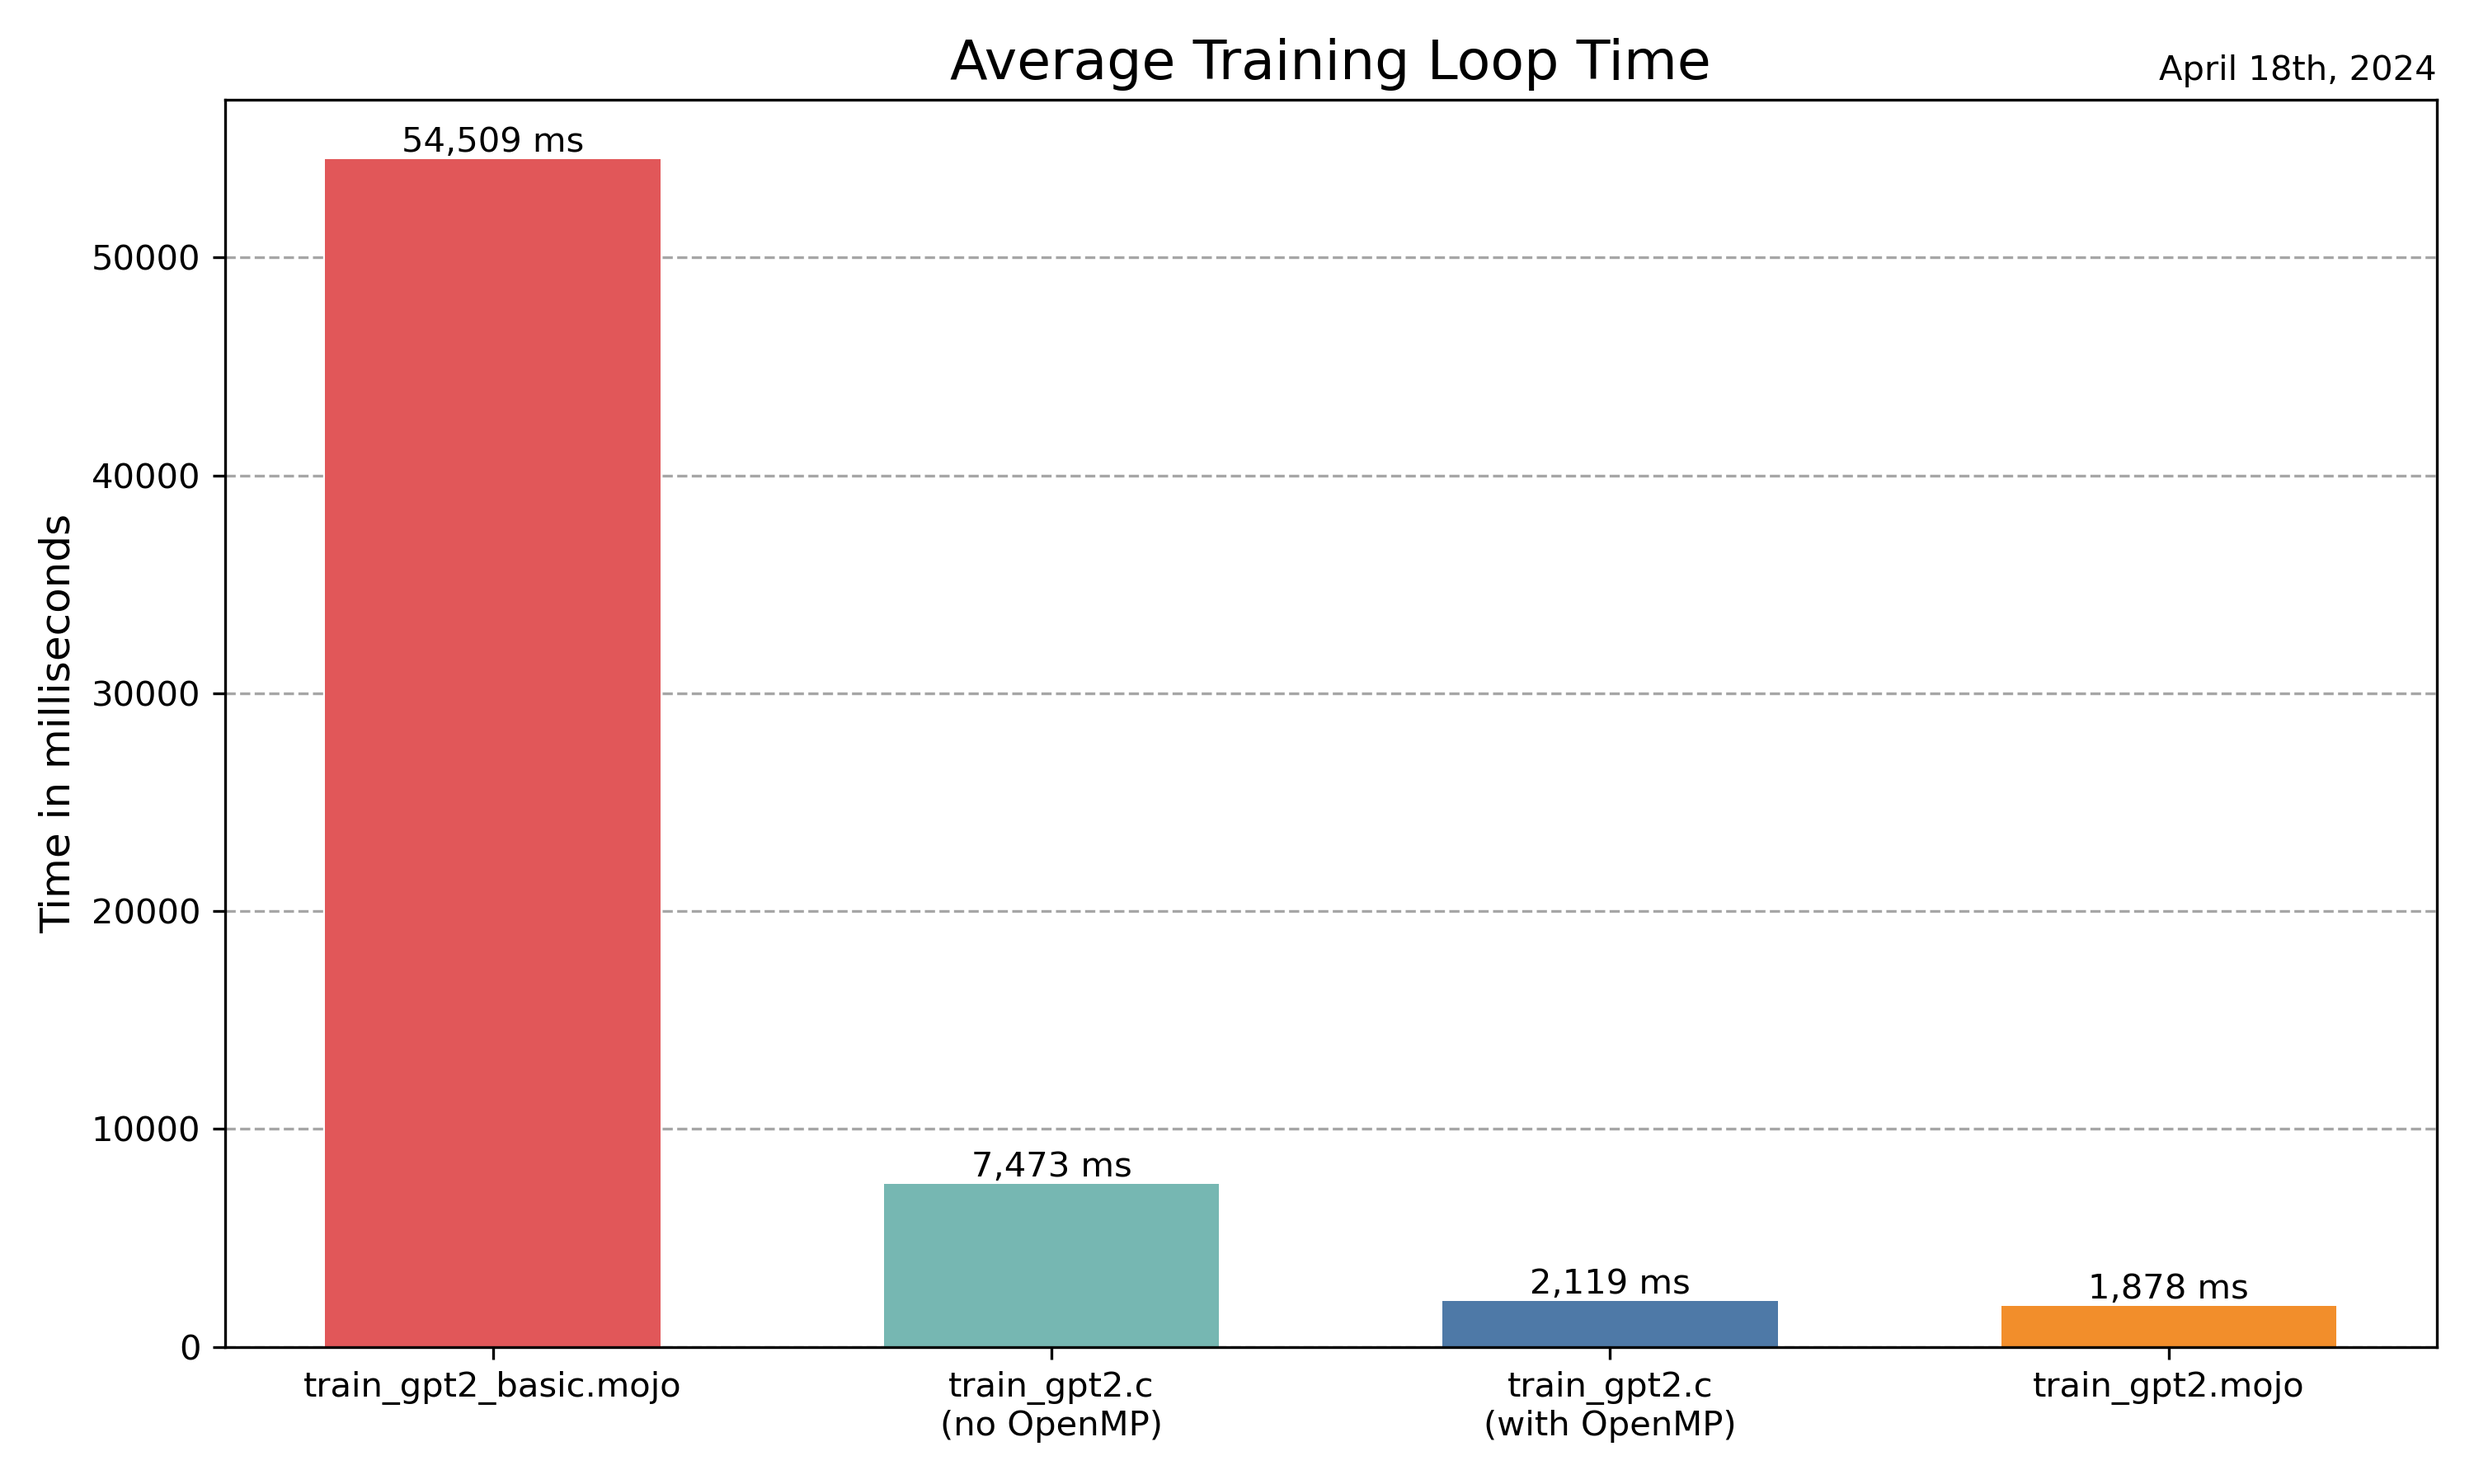
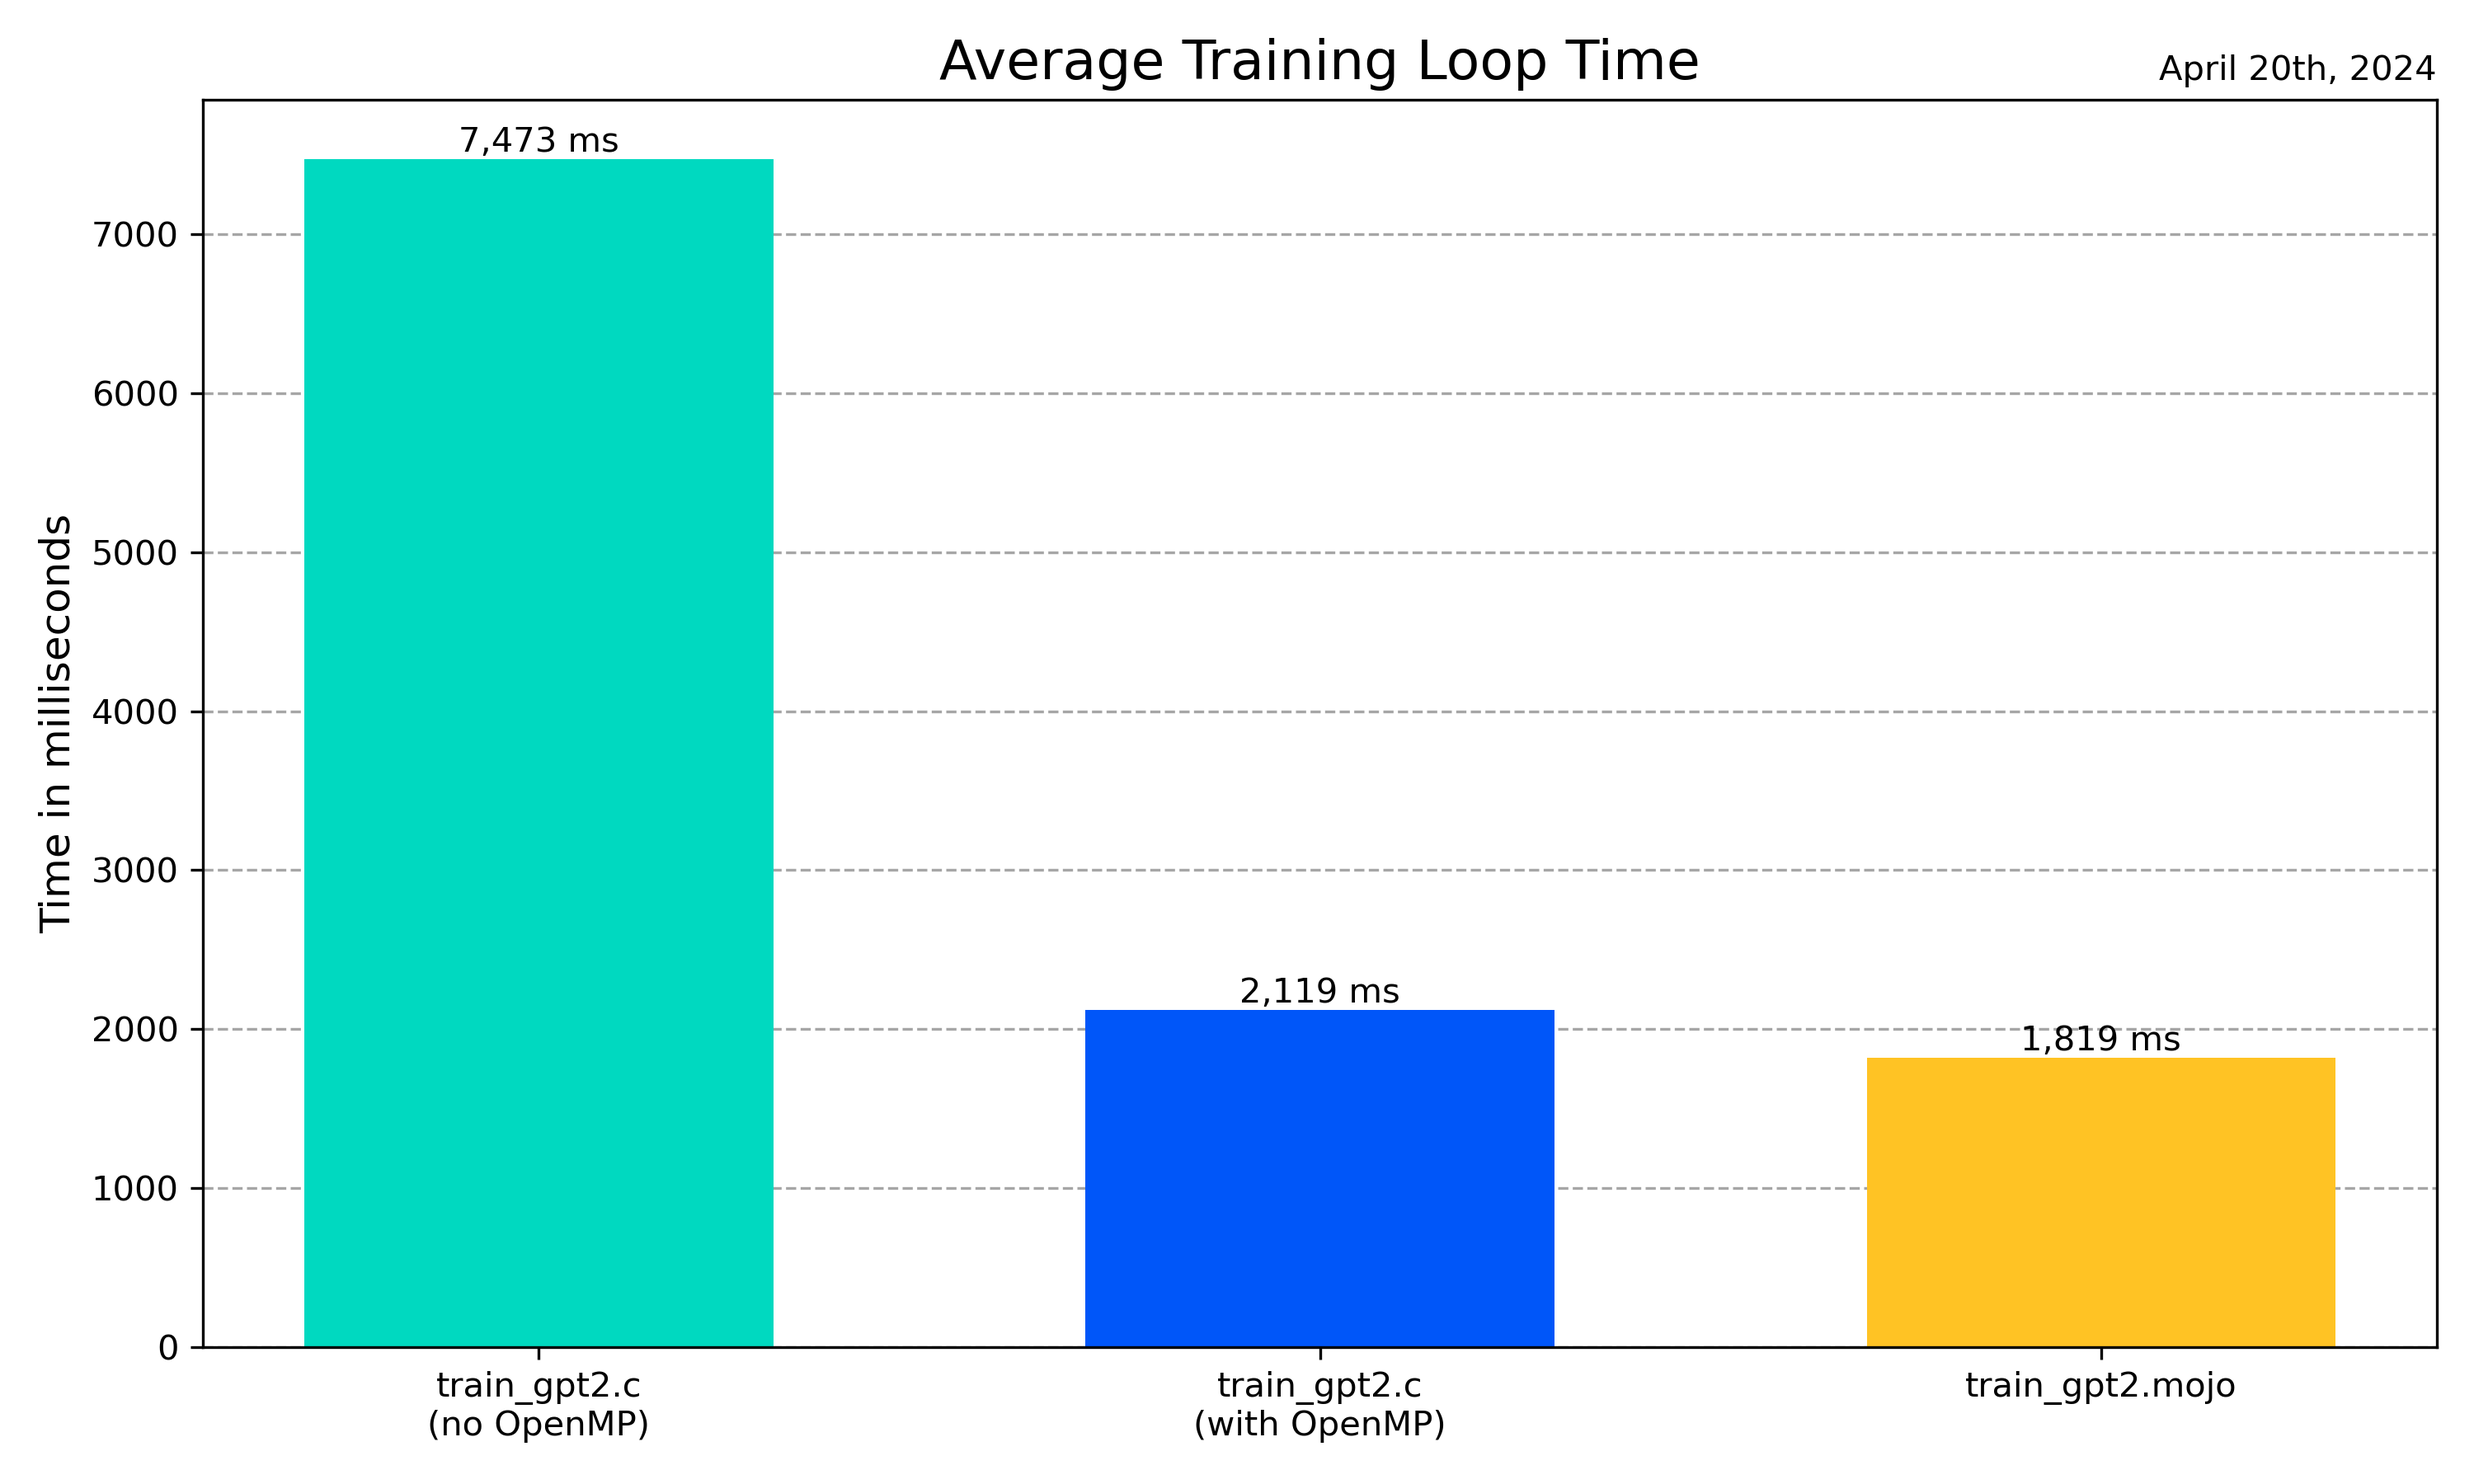
unroll_factor optimization

Changed region(s): [[0.031, 0.0622, 0.961, 0.9644], [0.372, 0.0311, 0.682, 0.0622], [0.899, 0.0311, 0.93, 0.0622]]

diff --git a/README.md b/README.md
@@ -59,7 +59,7 @@ Preliminary benchmark results: (M2 MacBook Pro)
 
 | Implementation             | Average Training Loop Time |
 |----------------------------|----------------------------|
-| train_gpt2.mojo             | 1878 ms                    |
+| train_gpt2.mojo             | 1819 ms                    |
 | train_gpt2.c (with OpenMP)  | 2119 ms                    |
 | train_gpt2.c  (no OpenMP)   | 7473 ms                    |
 | train_gpt2_basic.mojo       | 54509 ms                   |
@@ -78,6 +78,8 @@ We ported `test_gpt2.c` from the original repository to Mojo to validate our por
   
 ## Changelog
 
+- 2024.04.19
+  - Further optimization (utilizing unroll_factor of vectorize)
 - 2024.04.19
   - test_gpt2.mojo added.
 - 2024.04.18
